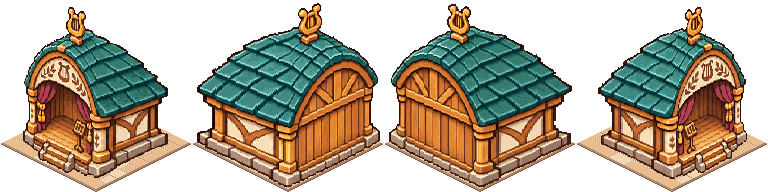
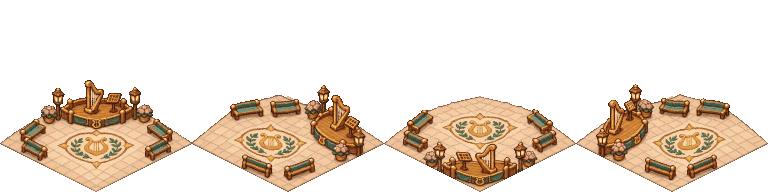
1.25.64 改訂：竪琴の音楽広場と出演者の立ち位置を4方向で調整

diff --git a/qa-build/STATUS.md b/qa-build/STATUS.md
@@ -4,5 +4,9 @@
 - 保存先　`lion000097/monster-biyori` の `fix/1.25.64-building-art`。基準は `9046c820` の `game.html` と建物原画。公開前の変更はこのブランチに積む。
 - 完了事項　シャボン玉のつぼの器と、光るきのこの群生の傘・軸の各4方向を1.25.64の元絵から取り出した。敷石・草台を透明にし、道・石タイルの上に置くことと後から下に敷くことを許可するコードを保存。
 - 確認結果　`assets/town-buildings/bubblePot.png` と `glowMushrooms.png` は64px×4方向。マスの周囲は透明。元の公開版は1.25.65で、進捗に記載されたPages成功と公開 `latest.json` を確認。
-- 残作業　ほかの施設の接地、音楽広場、菜園、世界樹、配布物、ゲーム操作・セーブ引継ぎ試験、公開。
+- 残作業　ほかの施設の接地、菜園、世界樹、配布物、ゲーム操作・セーブ引継ぎ試験、公開。
 - 次の操作　`releases/1.25.64/game.html` を基に `qa-build/gameplay.patch` と確定した原画を適用して続行。
+
+## 音楽堂
+
+屋外広場の原画を `assets/town-buildings/musicHall.png` に保存。竪琴の演奏台、腰掛け、中央のモザイクを4方向で作画した。3×3の角を道と同じ投影に合わせ、演奏役と観客の立ち位置も反映した。原寸192pxの4方向を確認。次は菜園。
